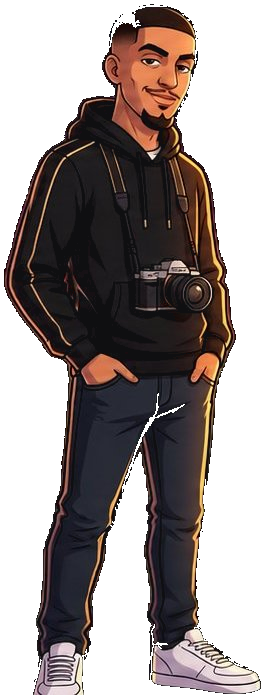
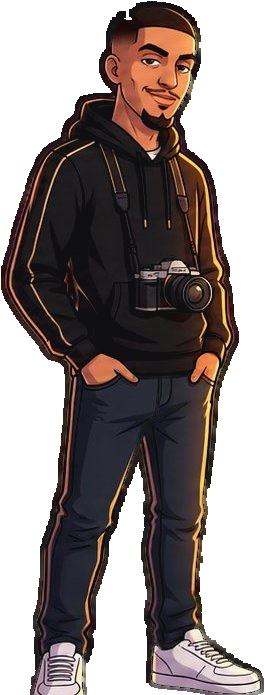
Add files via upload

diff --git a/faq.html b/faq.html
@@ -2043,89 +2043,40 @@
   .door-scene.is-revealed .door-panel { transform: rotateY(-108deg); pointer-events: none; }
   .door-scene.is-revealed .door-light { opacity: 1; }
 
-  /* ====== VIDÉO QUI SORT DE LA PORTE ====== */
-  .video-stage {
-    max-width: 720px;
-    margin: 30px auto 0;
-    position: relative;
-    perspective: 1300px;
-  }
-  /* halo de lumière dorée qui accompagne la sortie */
-  .video-stage::before {
-    content: '';
+  /* ====== VIDÉO LOGÉE DANS LA PORTE ====== */
+  .door-video {
     position: absolute;
-    left: 50%; top: -40px;
-    width: 60%; height: 70%;
-    transform: translateX(-50%);
-    background: radial-gradient(ellipse at center,
-      rgba(255,225,150,.85) 0%, rgba(201,151,31,.4) 40%, transparent 72%);
-    filter: blur(22px);
-    opacity: 0;
-    pointer-events: none;
-    z-index: 0;
-    transition: opacity .5s ease;
-  }
-  .video-stage.show::before {
-    opacity: 1;
-    animation: haloFade 1.8s ease forwards;
-  }
-  @keyframes haloFade {
-    0%   { opacity: 0; }
-    35%  { opacity: 1; }
-    100% { opacity: 0; }
-  }
-
-  .video-wrap {
-    position: relative;
-    z-index: 1;
-    transform-style: preserve-3d;
-    /* état initial : la vidéo est "dans" la porte — reculée, inclinée, masquée */
-    opacity: 0;
-    transform: translateY(-90px) translateZ(-260px) rotateX(32deg) scale(.9);
-    transform-origin: center top;
-    /* révélée depuis une fente centrale, comme l'embrasure */
-    clip-path: inset(0 46% 0 46% round 8px);
-    filter: brightness(2.6) saturate(.7);
-    pointer-events: none;
-    transition: none;
-  }
-  /* la vidéo franchit le seuil et s'avance vers le spectateur */
-  .video-stage.show .video-wrap {
-    opacity: 1;
-    transform: translateY(0) translateZ(0) rotateX(0deg) scale(1);
-    clip-path: inset(0 0% 0 0% round 8px);
-    filter: brightness(1) saturate(1);
-    pointer-events: auto;
-    transition:
-      transform 1.15s cubic-bezier(.22,.9,.3,1.08),
-      clip-path 1.05s cubic-bezier(.4,0,.2,1) .12s,
-      opacity .4s ease,
-      filter 1s ease .15s;
-  }
-  .video-stage video {
-    width: 100%;
-    display: block;
-    border-radius: 8px;
-    border: 3px solid var(--gold-deep);
-    box-shadow: 0 36px 70px -20px rgba(31,24,18,.6),
-                0 0 0 1px rgba(201,151,31,.3);
+    inset: 14px;
+    border-radius: 6px;
+    overflow: hidden;
     background: #000;
+    display: flex;
+    align-items: center;
+    justify-content: center;
+    opacity: 0;
+    z-index: 1;            /* derrière le battant (z-index 3) */
+    transition: opacity .4s ease .55s;
   }
-  /* éclat doré sur le bord haut, comme la lumière de la porte */
-  .video-wrap::after {
+  /* la vidéo s'inscrit dans l'embrasure, entière (format respecté) */
+  .door-video video {
+    width: 100%;
+    height: 100%;
+    object-fit: contain;
+    display: block;
+  }
+  /* halo doré quand la porte révèle la vidéo */
+  .door-video::after {
     content: '';
     position: absolute;
-    inset: -3px;
-    border-radius: 8px;
-    box-shadow: 0 -14px 40px -6px rgba(255,220,140,.9);
-    opacity: 0;
+    inset: 0;
+    box-shadow: inset 0 0 50px 8px rgba(255,220,140,.55);
     pointer-events: none;
+    opacity: 0;
     transition: opacity .6s ease;
   }
-  .video-stage.show .video-wrap::after {
-    animation: edgeGlow 1.6s ease forwards;
-  }
-  @keyframes edgeGlow {
+  .door-scene.is-revealed .door-video { opacity: 1; }
+  .door-scene.is-revealed .door-video::after { animation: doorGlow 1.6s ease forwards; }
+  @keyframes doorGlow {
     0%   { opacity: 0; }
     40%  { opacity: 1; }
     100% { opacity: 0; }
@@ -2249,6 +2200,10 @@
       <div class="door-stage">
         <div class="door-frame">
           <div class="door-light"></div>
+          <!-- la vidéo, logée dans l'embrasure de la porte -->
+          <div class="door-video" id="doorVideo">
+            <video id="faqVideo" src="video.mp4" playsinline controls preload="metadata"></video>
+          </div>
           <div class="door-panel" id="doorPanel" role="button" tabindex="0"
                aria-label="Ouvrir la porte">
             <span class="door-handle"></span>
@@ -2269,13 +2224,6 @@
         <svg viewBox="0 0 24 24" fill="none"><path d="M9 18l6-6-6-6" stroke="currentColor" stroke-width="2.4" stroke-linecap="round" stroke-linejoin="round"/></svg>
         clique pour ouvrir
       </span>
-    </div>
-
-    <!-- VIDÉO QUI SORT DE LA PORTE -->
-    <div class="video-stage" id="videoStage">
-      <div class="video-wrap">
-        <video id="faqVideo" src="video.mp4" playsinline controls preload="metadata"></video>
-      </div>
     </div>
 
     <button class="door-replay" id="doorReplay">
@@ -2380,7 +2328,6 @@
     const scene  = document.getElementById('doorScene');
     const panel  = document.getElementById('doorPanel');
     const replay = document.getElementById('doorReplay');
-    const stage  = document.getElementById('videoStage');
     const video  = document.getElementById('faqVideo');
     let busy = false;
 
@@ -2409,10 +2356,9 @@
         scene.classList.remove('is-unlocking');
         scene.classList.add('is-open');
       }, 3800);
-      // 4. la vidéo jaillit de la porte et grandit vers son format normal
+      // 4. la vidéo se révèle dans l'embrasure de la porte et se lance
       setTimeout(() => {
         scene.classList.add('is-revealed');
-        stage.classList.add('show');
         replay.classList.add('show');
         if (video) {
           video.currentTime = 0;
@@ -2428,7 +2374,6 @@
       if (video) video.pause();
       scene.classList.remove('is-revealed', 'is-open', 'is-unlocking',
                              'is-inserting', 'is-knocking', 'is-arriving', 'has-played');
-      stage.classList.remove('show');
       replay.classList.remove('show');
     }
 